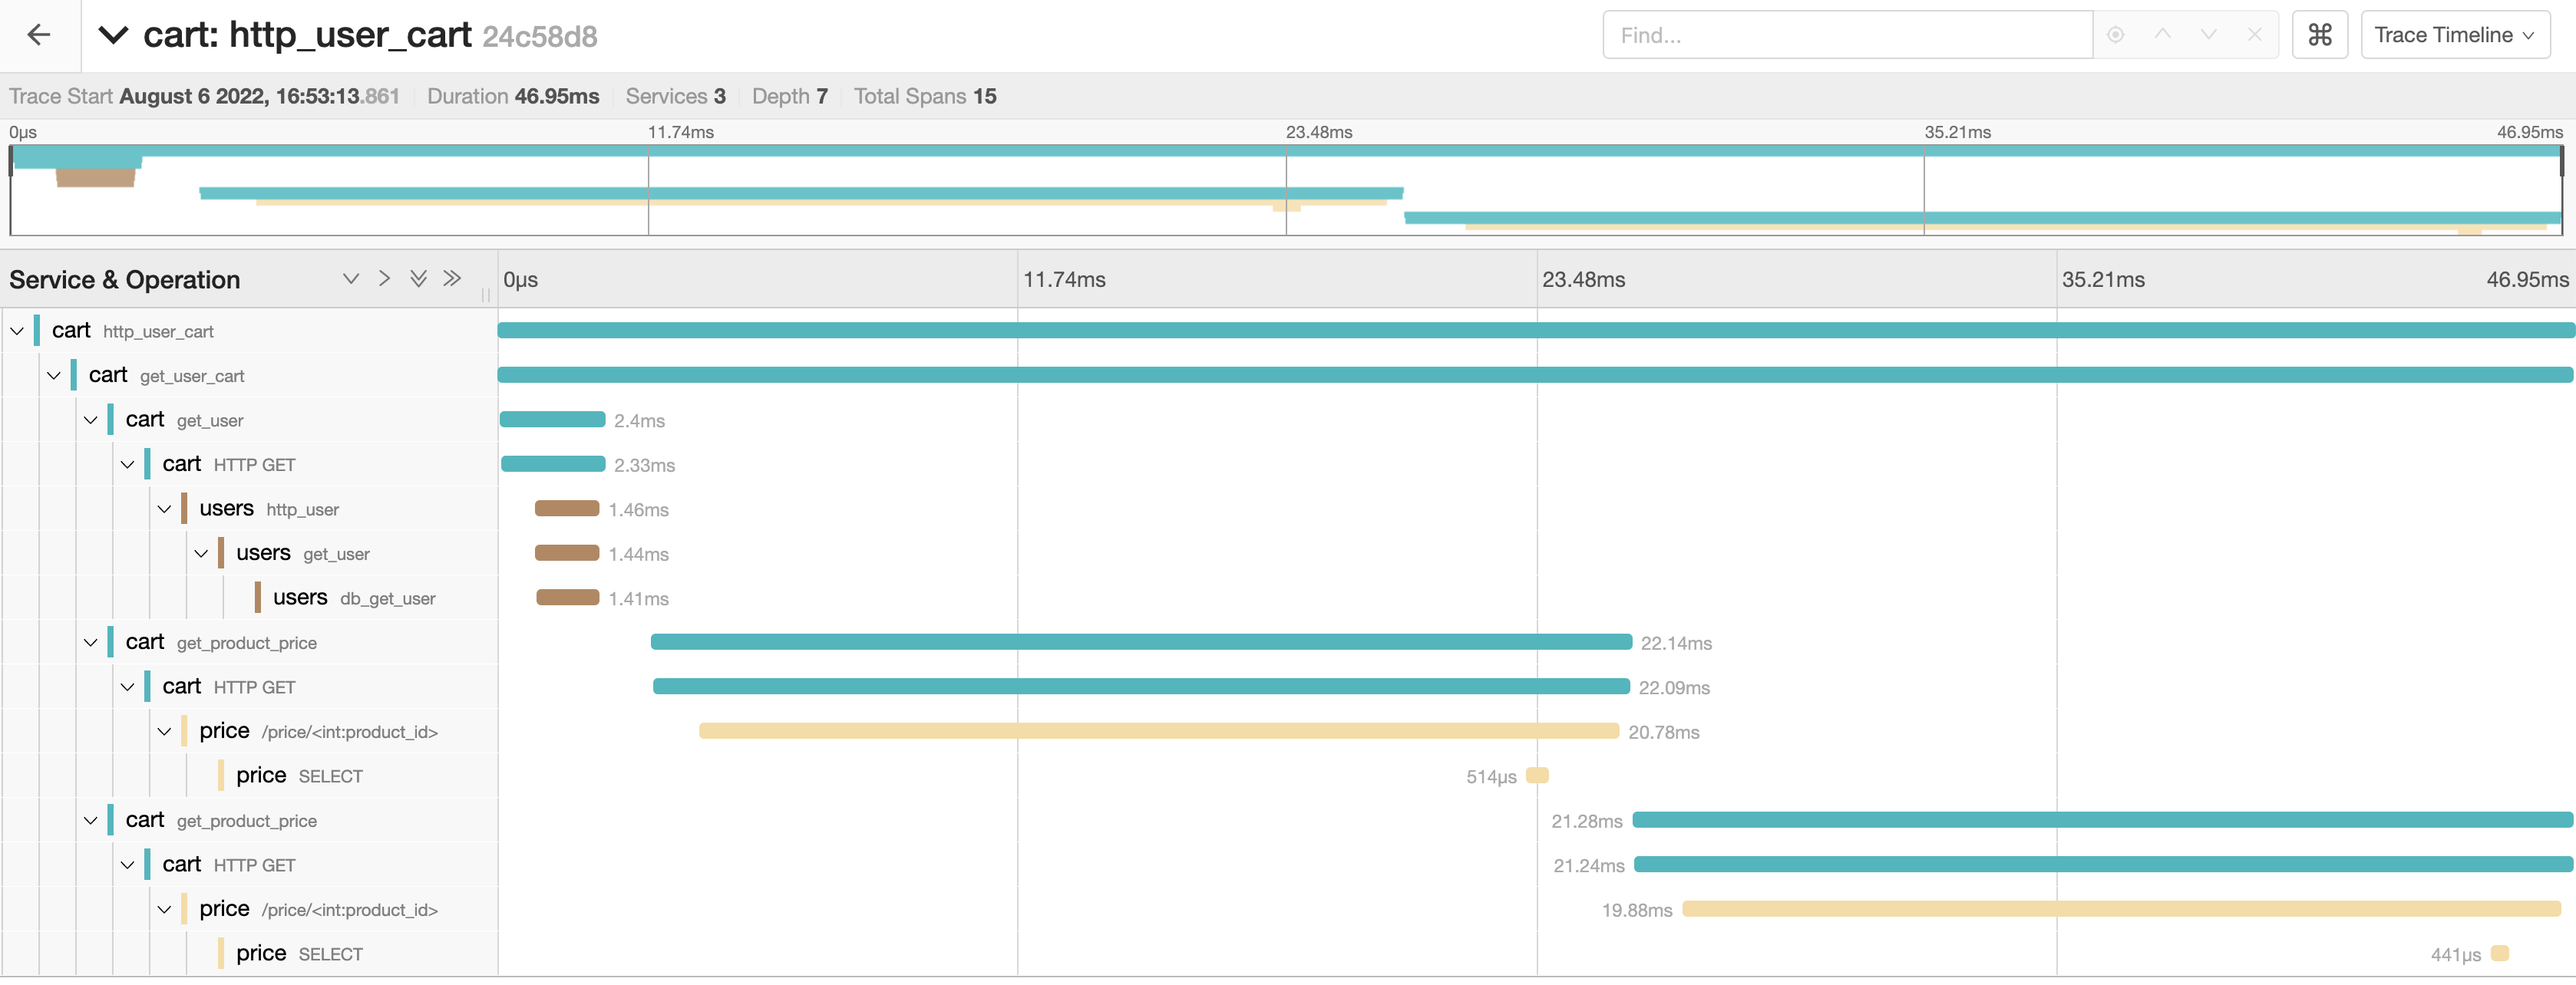
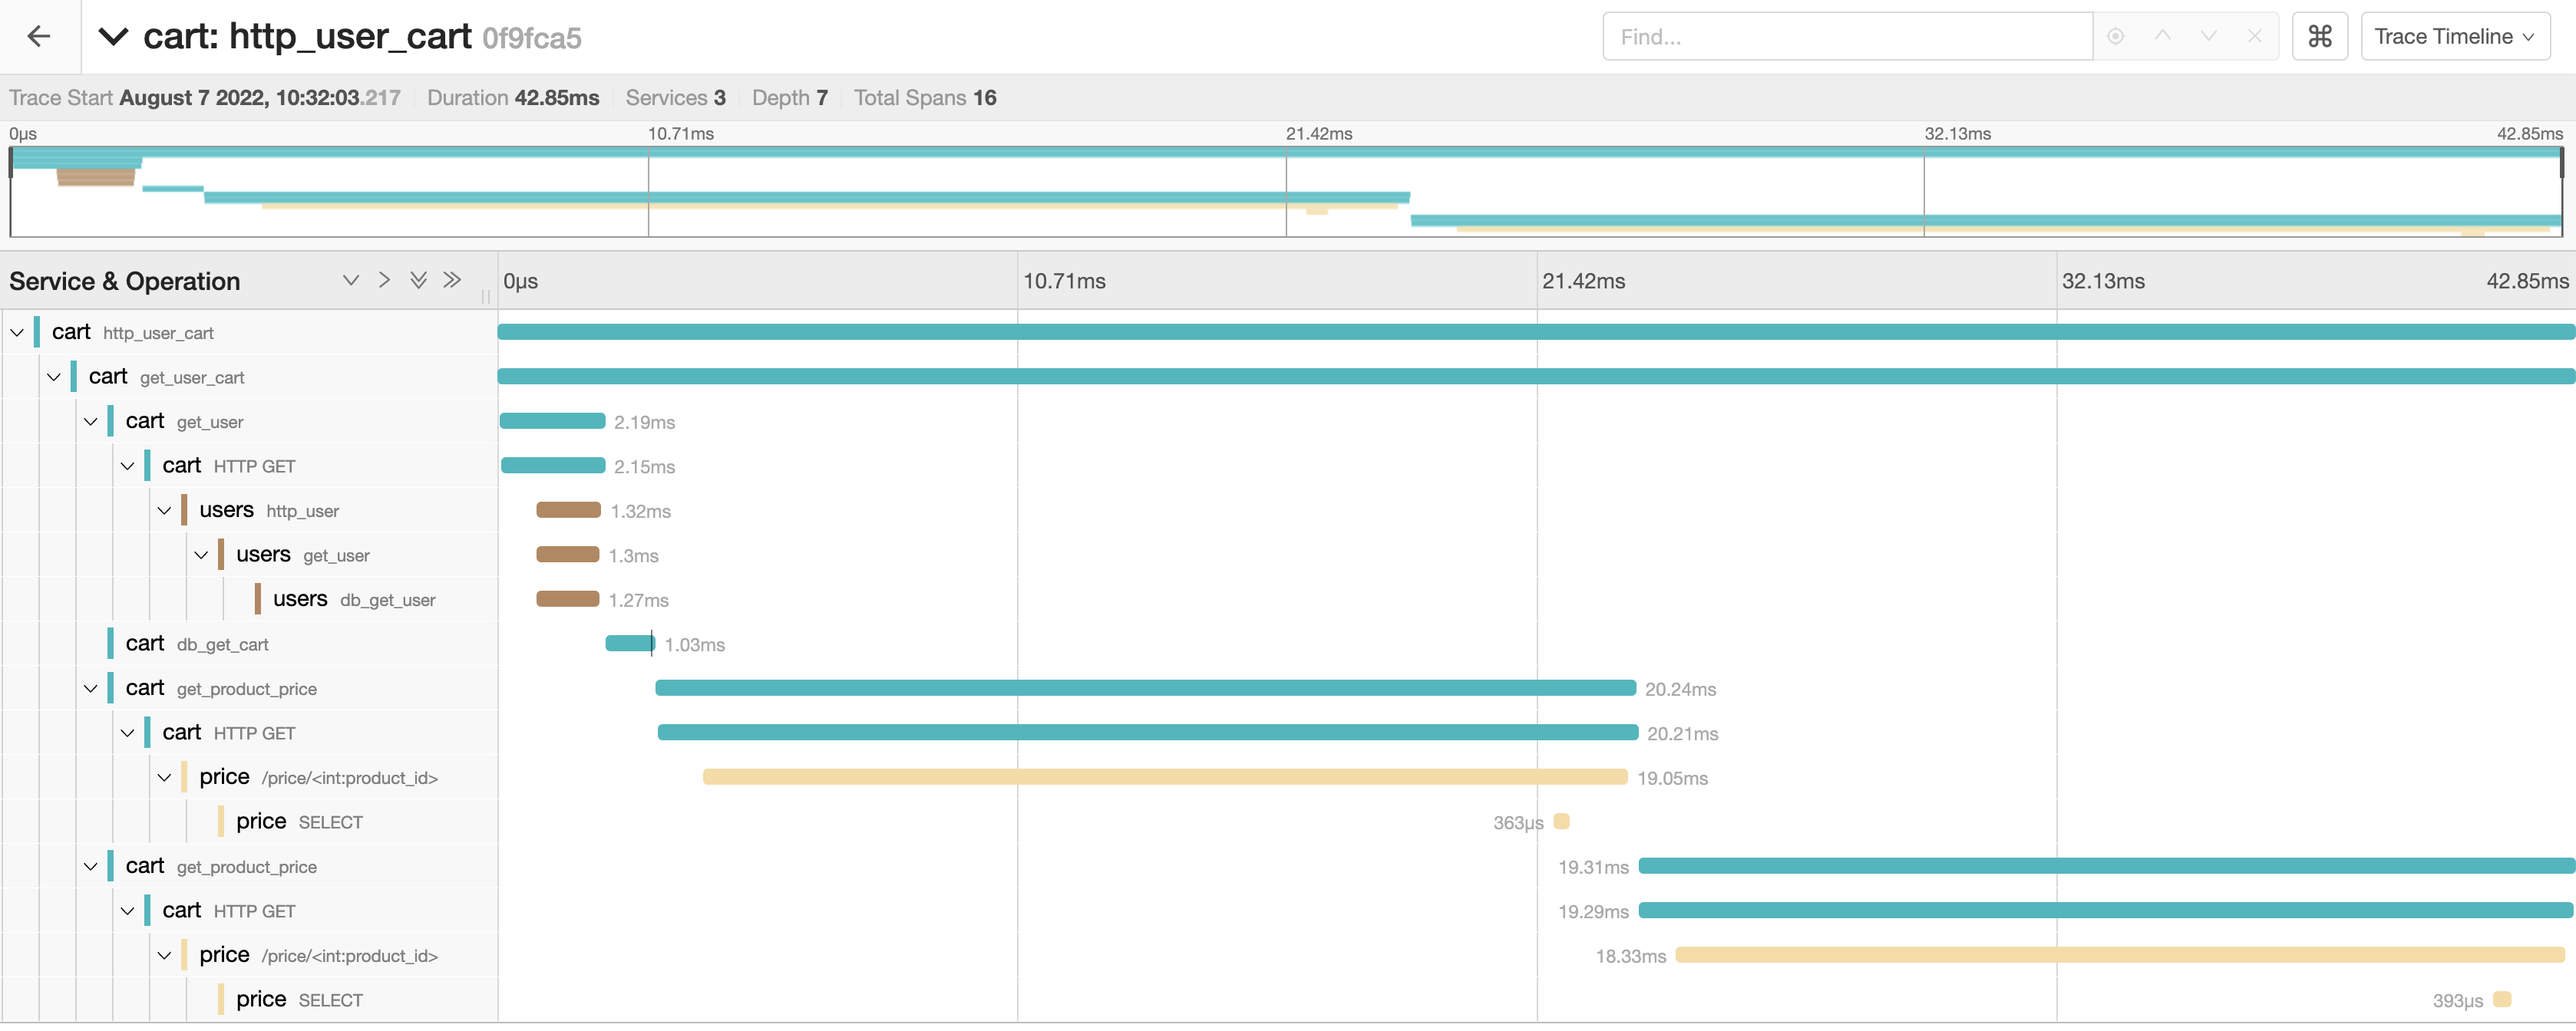
refactor telemetry and add event
move to a custom collector distro

remove build dir

diff --git a/cmd/cart/main.go b/cmd/cart/main.go
@@ -23,10 +23,7 @@ import (
 	"github.com/trstringer/otel-shopping-cart/pkg/users"
 )
 
-const (
-	rootPath         = "cart"
-	telemetryLibrary = "github.com/trstringer/otel-shopping-cart"
-)
+const rootPath = "cart"
 
 var (
 	port                int
@@ -114,7 +111,7 @@ func validateParams() {
 }
 
 func userCart(w http.ResponseWriter, r *http.Request) {
-	ctx, span := otel.Tracer(telemetryLibrary).Start(r.Context(), "get_user_cart")
+	ctx, span := otel.Tracer(telemetry.TelemetryLibrary).Start(r.Context(), "get_user_cart")
 	defer span.End()
 
 	if r.Method != http.MethodGet && r.Method != http.MethodPost {
@@ -245,7 +242,7 @@ func userCart(w http.ResponseWriter, r *http.Request) {
 }
 
 func getUser(ctx context.Context, userServiceEndpoint, userName string) (*users.User, error) {
-	ctx, span := otel.Tracer(telemetryLibrary).Start(ctx, "get_user")
+	ctx, span := otel.Tracer(telemetry.TelemetryLibrary).Start(ctx, "get_user")
 	defer span.End()
 
 	resp, err := otelhttp.Get(ctx, fmt.Sprintf("%s/%s", userServiceEndpoint, userName))
@@ -269,7 +266,7 @@ func getUser(ctx context.Context, userServiceEndpoint, userName string) (*users.
 }
 
 func getProductPrice(ctx context.Context, priceServiceEndpoint string, productID int) (float64, error) {
-	ctx, span := otel.Tracer(telemetryLibrary).Start(ctx, "get_product_price")
+	ctx, span := otel.Tracer(telemetry.TelemetryLibrary).Start(ctx, "get_product_price")
 	defer span.End()
 
 	span.SetAttributes(attribute.Int("product.id", productID))
@@ -297,7 +294,7 @@ func getProductPrice(ctx context.Context, priceServiceEndpoint string, productID
 }
 
 func getUserCart(ctx context.Context, cartManager cart.Manager, user *users.User) (*cart.Cart, error) {
-	userCart, err := cartManager.GetUserCart(user)
+	userCart, err := cartManager.GetUserCart(ctx, user)
 	if err != nil {
 		return nil, fmt.Errorf("error getting user cart: %w", err)
 	}

diff --git a/pkg/cart/mysqlmanager.go b/pkg/cart/mysqlmanager.go
@@ -1,10 +1,15 @@
 package cart
 
 import (
+	"context"
 	"database/sql"
 	"fmt"
 
+	"github.com/trstringer/otel-shopping-cart/pkg/telemetry"
 	"github.com/trstringer/otel-shopping-cart/pkg/users"
+	"go.opentelemetry.io/otel"
+	"go.opentelemetry.io/otel/attribute"
+	"go.opentelemetry.io/otel/trace"
 )
 
 // MySQLManager is the MySQL implementation for the cart manager.
@@ -37,7 +42,10 @@ func (m MySQLManager) dataSourceName() string {
 }
 
 // GetUserCart returns the user cart.
-func (m *MySQLManager) GetUserCart(user *users.User) (*Cart, error) {
+func (m *MySQLManager) GetUserCart(ctx context.Context, user *users.User) (*Cart, error) {
+	_, span := otel.Tracer(telemetry.TelemetryLibrary).Start(ctx, "db_get_cart")
+	defer span.End()
+
 	db, err := sql.Open("mysql", m.dataSourceName())
 	if err != nil {
 		return nil, fmt.Errorf("error opening database connection: %w", err)
@@ -63,6 +71,7 @@ WHERE
 	}
 	userCart := NewCart(user)
 
+	rowCount := 0
 	for rows.Next() {
 		var id, quantity int
 		var productName string
@@ -70,11 +79,16 @@ WHERE
 		if err != nil {
 			break
 		}
+		rowCount++
 		userCart.Products = append(
 			userCart.Products,
 			Product{ID: id, Name: productName, Quantity: quantity},
 		)
 	}
+	span.AddEvent(
+		"Successfully retrieved rows from database",
+		trace.WithAttributes(attribute.Int("row.count", rowCount)),
+	)
 
 	if errClose := rows.Close(); errClose != nil {
 		return nil, fmt.Errorf("error closing rows: %w", err)

diff --git a/pkg/users/mysqlmanager.go b/pkg/users/mysqlmanager.go
@@ -7,10 +7,9 @@ import (
 
 	// Blank import MySQL driver.
 	_ "github.com/go-sql-driver/mysql"
+	"github.com/trstringer/otel-shopping-cart/pkg/telemetry"
 	"go.opentelemetry.io/otel"
 )
-
-const telemetryLibrary = "github.com/trstringer/otel-shopping-cart"
 
 // MySQLManager implements the Manager interface using MySQL as the
 // persistent datastore.
@@ -44,7 +43,7 @@ func (m MySQLManager) dataSourceName() string {
 
 // GetUser returns a user from the database.
 func (m *MySQLManager) GetUser(ctx context.Context, userName string) (*User, error) {
-	_, span := otel.Tracer(telemetryLibrary).Start(ctx, "db_get_user")
+	_, span := otel.Tracer(telemetry.TelemetryLibrary).Start(ctx, "db_get_user")
 	defer span.End()
 
 	db, err := sql.Open("mysql", m.dataSourceName())

diff --git a/cmd/users/main.go b/cmd/users/main.go
@@ -19,10 +19,7 @@ import (
 	"github.com/trstringer/otel-shopping-cart/pkg/users"
 )
 
-const (
-	rootPath         = "users"
-	telemetryLibrary = "github.com/trstringer/otel-shopping-cart"
-)
+const rootPath = "users"
 
 var (
 	port         int
@@ -97,7 +94,7 @@ func validateParams() {
 
 func user(w http.ResponseWriter, r *http.Request) {
 	ctx := r.Context()
-	ctx, span := otel.Tracer(telemetryLibrary).Start(ctx, "get_user")
+	ctx, span := otel.Tracer(telemetry.TelemetryLibrary).Start(ctx, "get_user")
 	defer span.End()
 
 	reqBaggage := baggage.FromContext(ctx)

diff --git a/pkg/cart/cart.go b/pkg/cart/cart.go
@@ -1,6 +1,10 @@
 package cart
 
-import "github.com/trstringer/otel-shopping-cart/pkg/users"
+import (
+	"context"
+
+	"github.com/trstringer/otel-shopping-cart/pkg/users"
+)
 
 // Cart is the grouping of items that a user will buy.
 type Cart struct {
@@ -18,7 +22,7 @@ type Product struct {
 
 // Manager is an interface defining the cart manager.
 type Manager interface {
-	GetUserCart(*users.User) (*Cart, error)
+	GetUserCart(context.Context, *users.User) (*Cart, error)
 	AddItem(*Cart, Product) error
 }
 

diff --git a/pkg/telemetry/telemetry.go b/pkg/telemetry/telemetry.go
@@ -14,6 +14,9 @@ import (
 	"google.golang.org/grpc/credentials/insecure"
 )
 
+// TelemetryLibrary is the string for the instrumentation library.
+const TelemetryLibrary = "github.com/trstringer/otel-shopping-cart"
+
 // OTLPTracerProvider supplies an OTLP tracer provider.
 func OTLPTracerProvider(serviceName, serviceVersion string) (*trace.TracerProvider, error) {
 	ctx := context.Background()
